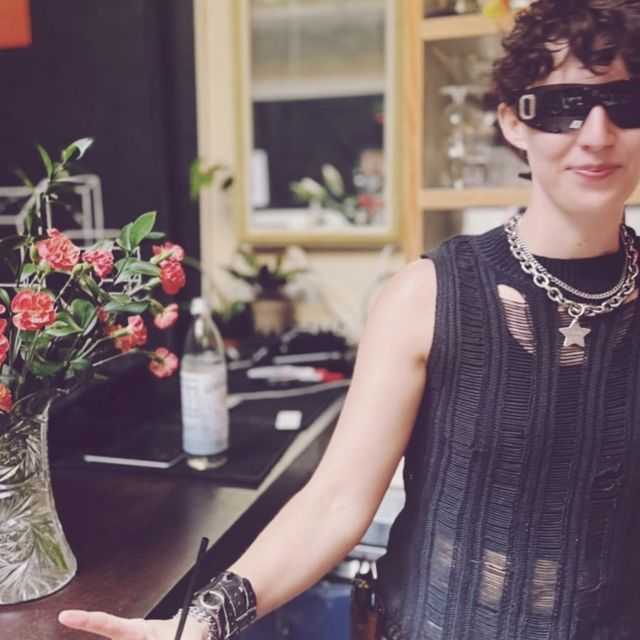
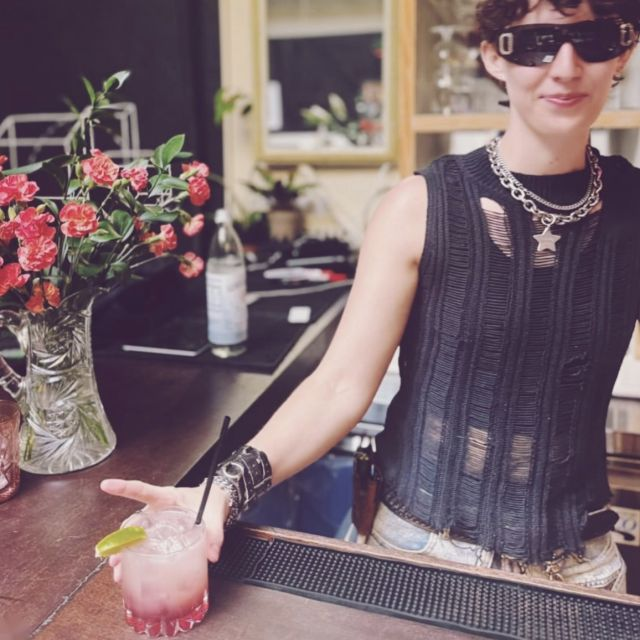
Cocktail crop, pink accent for Flowcrate graphics, tighter gap after follow button, Coupe Glass caption
Claude-Session: https://claude.ai/code/session_013i59DxhDfuUY9cuHSDTw9x

diff --git a/index.html b/index.html
@@ -35,7 +35,7 @@
     <link rel="preconnect" href="https://fonts.googleapis.com">
     <link rel="preconnect" href="https://fonts.gstatic.com" crossorigin>
     <link href="https://fonts.googleapis.com/css2?family=Archivo:wdth,wght@62..125,500..900&family=DM+Mono:wght@400;500&family=Newsreader:ital,opsz,wght@0,6..72,400..600;1,6..72,400&display=swap" rel="stylesheet">
-    <link rel="stylesheet" href="style.css?v=20261016e" type="text/css">
+    <link rel="stylesheet" href="style.css?v=20261016f" type="text/css">
     <script type="application/ld+json">
     {
       "@context": "https://schema.org",
@@ -271,7 +271,7 @@
             <div class="strip">
                 <div class="cell cell-moon"><span class="moon" aria-hidden="true"></span></div>
                 <div class="cell cell-legend">
-                    <p class="mono">Fig. 01 &mdash; Coupe, diagrammed</p>
+                    <p class="mono">Fig. 01 &mdash; Coupe Glass, diagrammed</p>
                     <ul>
                         <li><b>A</b> Rim</li>
                         <li><b>B</b> Bowl</li>

diff --git a/style.css b/style.css
@@ -286,8 +286,7 @@ h3 { margin: 0; font-family: var(--display); font-weight: 700; text-transform: u
 .link:hover { color: var(--hot-ink); }
 
 /* ---------- flowcrate carousel ---------- */
-.car-wrap { --coral: #f26f5b; }
-@supports (color: oklch(70% .2 29)) { .car-wrap { --coral: oklch(70% .2 29); } }
+.car-wrap { --coral: var(--hot); }
 .carousel { padding: 10px; margin-bottom: 0; }
 .carousel .slides { display: flex; overflow-x: auto; scroll-snap-type: x mandatory; scrollbar-width: none; -webkit-overflow-scrolling: touch; }
 .carousel .slides::-webkit-scrollbar { display: none; }
@@ -452,3 +451,6 @@ h3 { margin: 0; font-family: var(--display); font-weight: 700; text-transform: u
 .slide-link { display: block; color: inherit; }
 .car-nav { padding-top: 16px; }
 .s-big2 { fill: #ece8df; font-size: 20.9px; letter-spacing: 0.06em; font-weight: 500; }
+
+/* tighter gap after the club grid + follow button */
+#club { padding-bottom: clamp(8px, 2vw, 24px); }

diff --git a/404.html b/404.html
@@ -8,7 +8,7 @@
     <link rel="icon" href="/favicon.svg" type="image/svg+xml">
     <link rel="icon" href="/favicon.ico" sizes="any">
     <link href="https://fonts.googleapis.com/css2?family=Archivo:wdth,wght@62..125,500..900&family=DM+Mono:wght@400;500&family=Newsreader:ital,opsz,wght@0,6..72,400..600;1,6..72,400&display=swap" rel="stylesheet">
-    <link rel="stylesheet" href="/style.css?v=20261016e">
+    <link rel="stylesheet" href="/style.css?v=20261016f">
 </head>
 <body>
     <main class="band ink last" style="min-height:100vh;display:grid;align-items:center">
